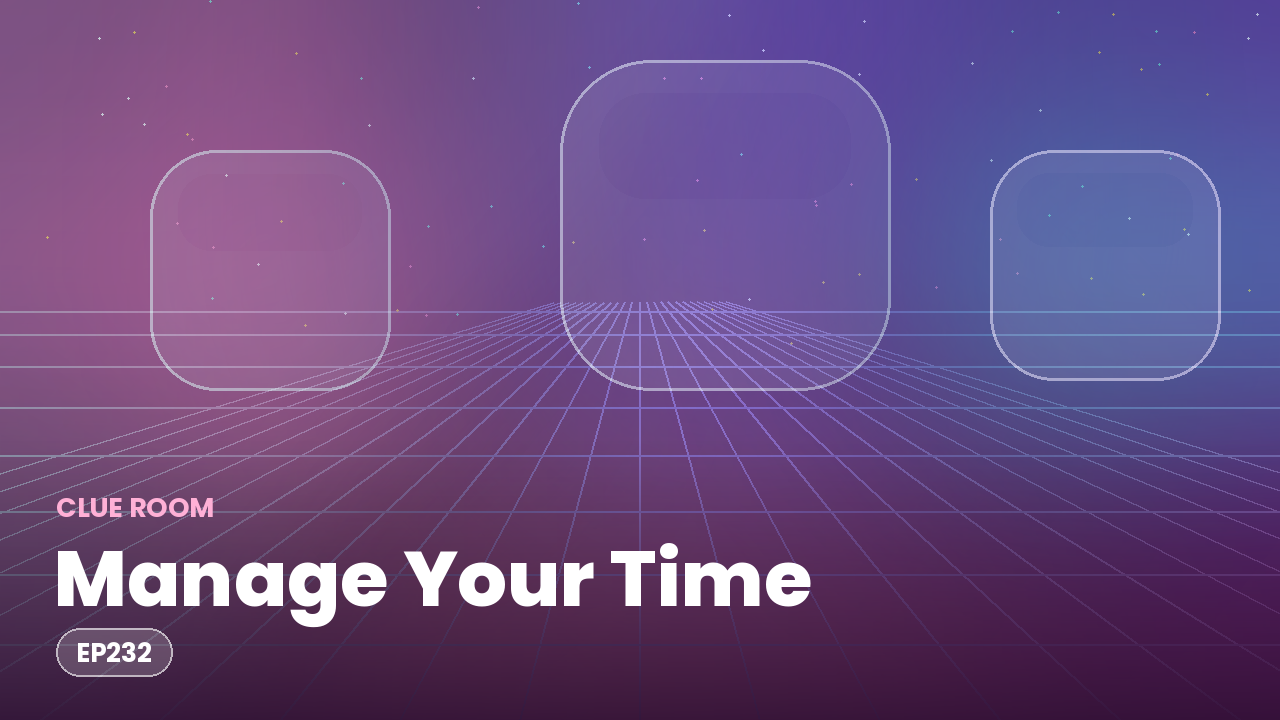
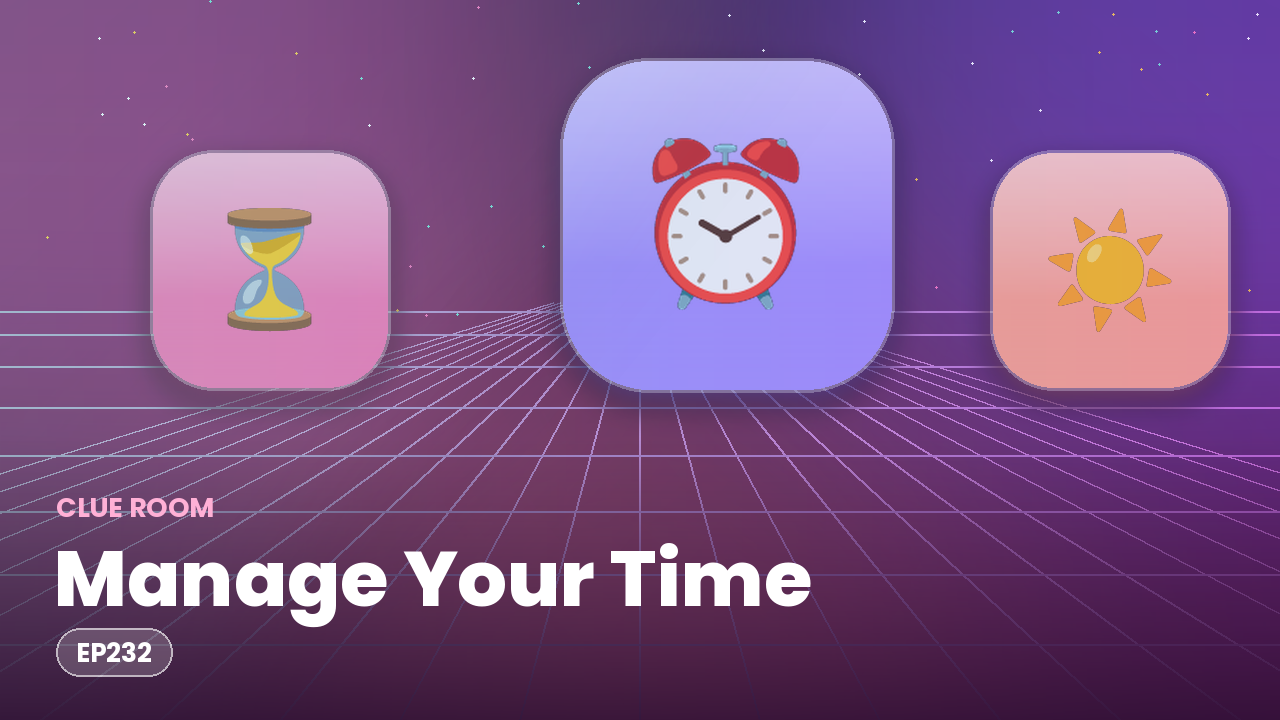
feat(clue-room): softer glassy tiles; episode-emoji clue covers (distinct, non-empty)

diff --git a/games/clue-room/index.html b/games/clue-room/index.html
@@ -337,26 +337,31 @@ function boot(data){
     const x=cv.getContext('2d');
     const C=(c.color||'#8b6cff');
     const cr=parseInt(C.slice(1,3),16),cg=parseInt(C.slice(3,5),16),cb=parseInt(C.slice(5,7),16);
-    const lite='rgb('+Math.min(255,cr+46)+','+Math.min(255,cg+46)+','+Math.min(255,cb+46)+')';
-    const base='rgb('+cr+','+cg+','+cb+')';
-    const dark='rgb('+Math.round(cr*0.62)+','+Math.round(cg*0.62)+','+Math.round(cb*0.62)+')';
+    const mix=(a,b,t)=>Math.round(a+(b-a)*t);
+    const lite='rgb('+mix(cr,255,0.44)+','+mix(cg,255,0.44)+','+mix(cb,255,0.44)+')';
+    const base='rgb('+mix(cr,255,0.15)+','+mix(cg,255,0.15)+','+mix(cb,255,0.15)+')';
+    const dark='rgb('+Math.round(cr*0.5)+','+Math.round(cg*0.5)+','+Math.round(cb*0.5)+')';
     const pad=44, w=S-pad*2, r=Math.round(w*0.27);
     function rr(px,py,pw,ph,rad){ if(x.roundRect){x.beginPath();x.roundRect(px,py,pw,ph,rad);} else {
       x.beginPath();x.moveTo(px+rad,py);x.arcTo(px+pw,py,px+pw,py+ph,rad);x.arcTo(px+pw,py+ph,px,py+ph,rad);
       x.arcTo(px,py+ph,px,py,rad);x.arcTo(px,py,px+pw,py,rad);x.closePath(); } }
     // soft drop shadow
-    x.save(); x.shadowColor='rgba(0,0,0,0.42)'; x.shadowBlur=24; x.shadowOffsetY=12;
+    x.save(); x.shadowColor='rgba(0,0,0,0.38)'; x.shadowBlur=24; x.shadowOffsetY=12;
     rr(pad,pad,w,w,r); x.fillStyle=dark; x.fill(); x.restore();
-    // solid vertical gradient fill (lighter top -> base) for app-icon depth
+    // softened vertical gradient fill (lighter top -> light base)
     rr(pad,pad,w,w,r);
     const g=x.createLinearGradient(0,pad,0,pad+w); g.addColorStop(0,lite); g.addColorStop(1,base);
     x.fillStyle=g; x.fill();
     // top gloss: a soft highlight that fades out (no hard inner edge)
     x.save(); rr(pad,pad,w,w,r); x.clip();
     const sg=x.createLinearGradient(0,pad,0,pad+w*0.62);
-    sg.addColorStop(0,'rgba(255,255,255,0.28)'); sg.addColorStop(1,'rgba(255,255,255,0)');
-    x.fillStyle=sg; x.fillRect(pad,pad,w,w*0.62); x.restore();
-    rr(pad,pad,w,w,r); x.lineWidth=2; x.strokeStyle='rgba(255,255,255,0.24)'; x.stroke();
+    sg.addColorStop(0,'rgba(255,255,255,0.34)'); sg.addColorStop(1,'rgba(255,255,255,0)');
+    x.fillStyle=sg; x.fillRect(pad,pad,w,w*0.62);
+    // faint bottom inner light for a glassy read
+    const bg2=x.createLinearGradient(0,pad+w*0.62,0,pad+w);
+    bg2.addColorStop(0,'rgba(255,255,255,0)'); bg2.addColorStop(1,'rgba(255,255,255,0.13)');
+    x.fillStyle=bg2; x.fillRect(pad,pad+w*0.62,w,w*0.38); x.restore();
+    rr(pad,pad,w,w,r); x.lineWidth=2; x.strokeStyle='rgba(255,255,255,0.32)'; x.stroke();
     // the clue's emoji, centred, with a soft shadow for definition
     x.font='196px "Apple Color Emoji","Segoe UI Emoji","Noto Color Emoji","Twemoji Mozilla",sans-serif';
     x.textAlign='center'; x.textBaseline='middle';
